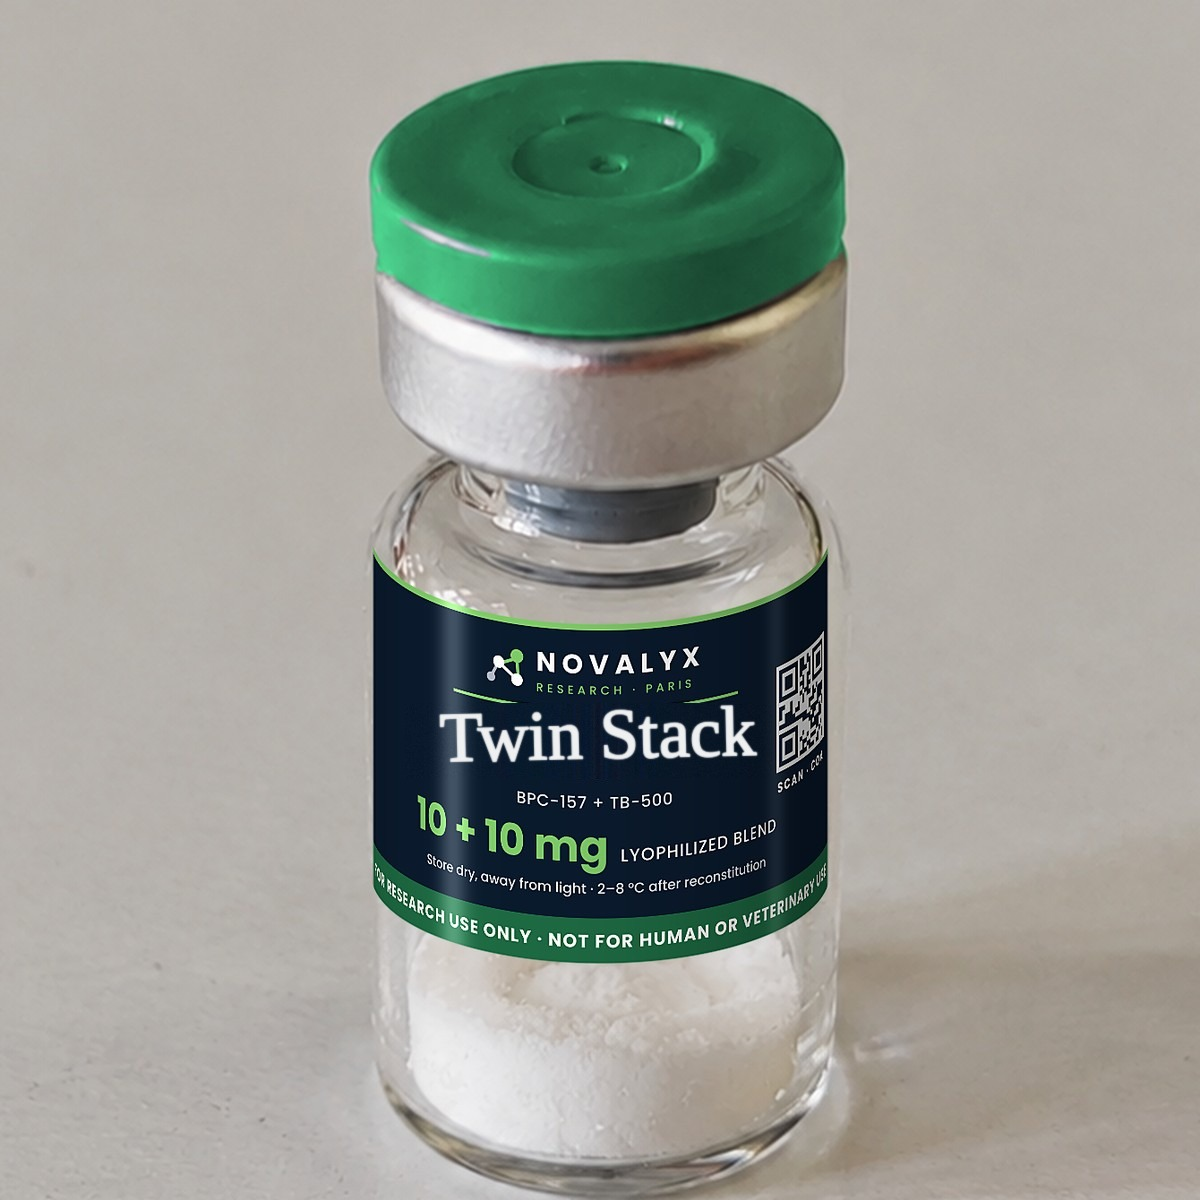
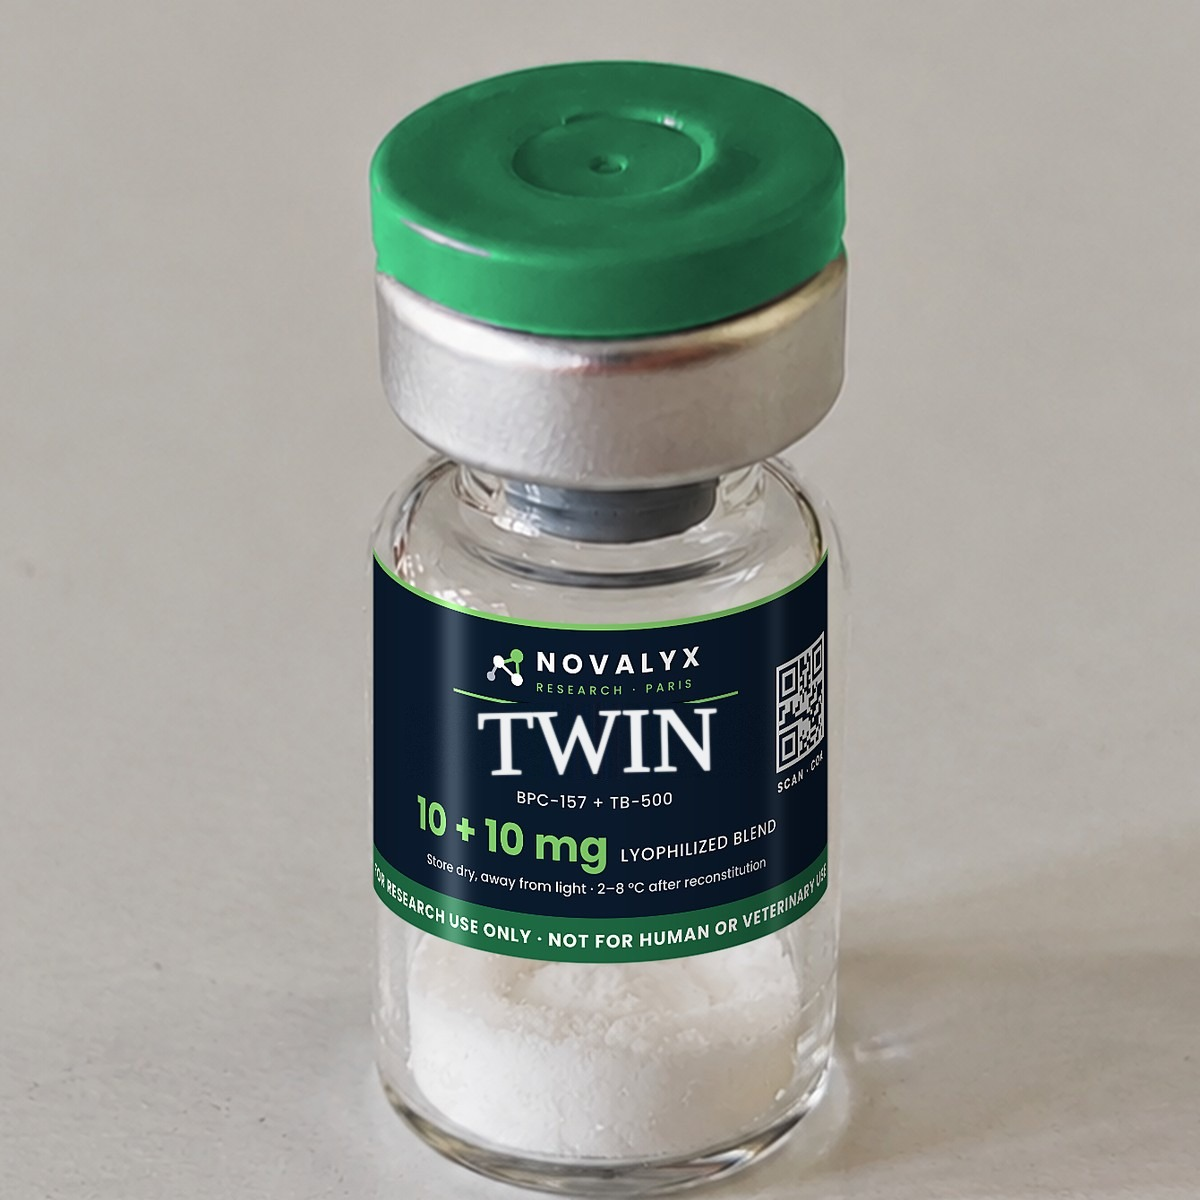
TWIN et SYNAPSE, catégorie « Les Stacks Novalyx »
Claude-Session: https://claude.ai/code/session_01PzS3BkrYWEr8UmzWCxH8az

Changed region(s): [[0.37, 0.5858, 0.6475, 0.6475]]

diff --git a/src/App.jsx b/src/App.jsx
@@ -213,7 +213,7 @@ const PRODUCT_FR = {
   "Bioregulators": "Biorégulateurs peptidiques",
   "Cosmetic Peptides": "Peptides dermo-cosmétiques",
   "Specialized": "Spécialisé",
-  "Signature Blends": "Mélanges Signature",
+  "Signature Blends": "Les Stacks Novalyx",
   "Lab Supplies": "Fournitures Labo",
   // Badges
   "BESTSELLER": "MEILLEURE VENTE",
@@ -1166,11 +1166,11 @@ const PRODUCTS = [
   },
   {
     id: "novalyxformula06",
-    name: "Twin Stack",
+    name: "TWIN",
     tag: "REGENERATIVE RESEARCH BLEND",
     category: "Signature Blends",
-    desc: "Twin Stack is a research blend containing BPC-157 and TB-500 combined in a single lyophilised vial, in two sizes (5mg + 5mg or 10mg + 10mg). Supplied exclusively for in-vitro laboratory research. Not a medicine, supplement, or cosmetic. Not for human or veterinary use.",
-    desc_fr: "Twin Stack est un mélange de recherche contenant du BPC-157 et du TB-500 réunis dans un seul flacon lyophilisé, en deux formats (5 mg + 5 mg ou 10 mg + 10 mg). Fourni exclusivement pour la recherche in-vitro en laboratoire. Pas un médicament, complément ou cosmétique. Pas pour usage humain ou vétérinaire.",
+    desc: "TWIN is a research blend containing BPC-157 and TB-500 combined in a single lyophilised vial, in two sizes (5mg + 5mg or 10mg + 10mg). Supplied exclusively for in-vitro laboratory research. Not a medicine, supplement, or cosmetic. Not for human or veterinary use.",
+    desc_fr: "TWIN est un mélange de recherche contenant du BPC-157 et du TB-500 réunis dans un seul flacon lyophilisé, en deux formats (5 mg + 5 mg ou 10 mg + 10 mg). Fourni exclusivement pour la recherche in-vitro en laboratoire. Pas un médicament, complément ou cosmétique. Pas pour usage humain ou vétérinaire.",
     variants: [
       { size: "10mg total (BPC5+TB5)", price: 64.99 },
       { size: "20mg total (BPC10+TB10)", price: 79.99 },
@@ -1203,11 +1203,11 @@ const PRODUCTS = [
 
   {
     id: "novalyxformula08semaxselank",
-    name: "S²",
+    name: "SYNAPSE",
     tag: "NEUROPEPTIDE RESEARCH",
     category: "Signature Blends",
-    desc: "S² is supplied exclusively for in-vitro laboratory research. Each vial contains a lyophilised peptide. The Janoshik analysis report is published once the batch has been tested. Not a medicine, supplement, or cosmetic. Not for human or veterinary use.",
-    desc_fr: "S² est fourni exclusivement pour la recherche in-vitro en laboratoire. Chaque flacon contient un composé lyophilisé. Le rapport d'analyse Janoshik est publié dès que le lot a été testé. Pas un médicament, complément ou cosmétique. Pas pour usage humain ou vétérinaire.",
+    desc: "SYNAPSE is supplied exclusively for in-vitro laboratory research. Each vial contains a lyophilised peptide. The Janoshik analysis report is published once the batch has been tested. Not a medicine, supplement, or cosmetic. Not for human or veterinary use.",
+    desc_fr: "SYNAPSE est fourni exclusivement pour la recherche in-vitro en laboratoire. Chaque flacon contient un composé lyophilisé. Le rapport d'analyse Janoshik est publié dès que le lot a été testé. Pas un médicament, complément ou cosmétique. Pas pour usage humain ou vétérinaire.",
     variants: [
       { size: "10mg+10mg", price: 69.99 },
     ],
@@ -4041,7 +4041,7 @@ const BOT_KB = {
      "L'afamélanotide est autorisé sous forme d'implant (marque Scenesse) pour une indication précise (protoporphyrie érythropoïétique) dans l'UE et aux États-Unis. Le produit Novalyx est un composé de recherche, pas ce médicament."],
     ["Synthetic analogue of α-MSH, known as afamelanotide ([Nle4, D-Phe7]-α-MSH), an agonist of the MC1R receptor.",
      "Afamelanotide is authorised as an implant (brand Scenesse) for a specific indication (erythropoietic protoporphyria) in the EU and the United States. The Novalyx product is a research compound, not that medicine."]),
-  novalyxformula08semaxselank: K(["s2", "s²", "s carre", "formula 08", "formule 08", "semax selank", "semax + selank", "selank semax"],
+  novalyxformula08semaxselank: K(["synapse", "formula 08", "formule 08", "semax selank", "semax + selank", "selank semax"],
     ["Mélange de deux heptapeptides : le Semax, analogue du fragment ACTH(4-10), et le Selank, analogue de la tuftsine. Chacun est étudié pour ses effets sur la neuromodulation.",
      "Le Semax et le Selank sont autorisés comme médicaments en Russie (voie nasale) ; ni l'un ni l'autre n'est autorisé dans l'Union européenne ou aux États-Unis."],
     ["Blend of two heptapeptides: Semax, an analogue of the ACTH(4-10) fragment, and Selank, an analogue of tuftsin. Each is studied for its neuromodulatory effects.",
@@ -4216,8 +4216,8 @@ const BOT_KB = {
      "Mélange propriétaire de composés de recherche ; aucun statut de médicament. Les statuts de ses composants sont ceux décrits dans leurs fiches."],
     ["Novalyx research blend of four compounds: BPC-157 (10 mg) + GHK-Cu (50 mg) + TB-500 (10 mg) + KPV (10 mg) in a single lyophilised vial. See their entries for the nature of each component.",
      "Proprietary blend of research compounds; no medicine status. The status of its components is as described in their own entries."]),
-  novalyxformula06: K(["twin stack", "twin", "wolverine", "bpc tb", "bpc 157 tb 500", "formula 01", "formula 1", "formule 01", "formula 06", "formula 6", "formule 06", "formule 6", "f06", "f6"],
-    ["Twin Stack : mélange de recherche Novalyx de deux composés, BPC-157 + TB-500, en deux conditionnements (10 mg au total : 5 mg + 5 mg ; 20 mg au total : 10 mg + 10 mg). Voir les fiches BPC-157 et TB-500.",
+  novalyxformula06: K(["twin", "twin stack", "wolverine", "bpc tb", "bpc 157 tb 500", "formula 01", "formula 1", "formule 01", "formula 06", "formula 6", "formule 06", "formule 6", "f06", "f6"],
+    ["TWIN : mélange de recherche Novalyx de deux composés, BPC-157 + TB-500, en deux conditionnements (10 mg au total : 5 mg + 5 mg ; 20 mg au total : 10 mg + 10 mg). Voir les fiches BPC-157 et TB-500.",
      "Mélange propriétaire de composés de recherche ; aucun statut de médicament. Les statuts de ses composants sont ceux décrits dans leurs fiches."],
     ["Novalyx research blend of two compounds: BPC-157 + TB-500, in two sizes (10 mg total: 5 mg + 5 mg; 20 mg total: 10 mg + 10 mg). See the BPC-157 and TB-500 entries.",
      "Proprietary blend of research compounds; no medicine status. The status of its components is as described in their own entries."]),
@@ -5116,7 +5116,7 @@ const XL_DE = {
 "Send the payment": "Zahlung senden",
 "Shipping": "Versand",
 "Short peptides from V. Khavinson's research.": "Kurze Peptide aus der Forschung von V. Khavinson.",
-"Signature Blends": "Signature-Mischungen",
+"Signature Blends": "Novalyx Stacks",
 "Sleep, reproductive, melanocortin.": "Schlaf, Fortpflanzung, Melanocortin.",
 "Specialized": "Spezialisiert",
 "Terms & Conditions": "Allgemeine Geschäftsbedingungen",
@@ -6186,7 +6186,7 @@ const XL_NL = {
 "Shipping & delivery": "Verzending & levering",
 "Shipping:": "Verzending:",
 "Short peptides from V. Khavinson's research.": "Korte peptiden uit het onderzoek van V. Khavinson.",
-"Signature Blends": "Signature-mengsels",
+"Signature Blends": "Novalyx Stacks",
 "Simply place the order again. If you had already sent the payment, email us with the time it was sent: we will find it.": "Plaats de bestelling gewoon opnieuw. Had u de betaling al verzonden, mail ons dan met het tijdstip van verzending: wij vinden haar terug.",
 "Size": "Formaat",
 "Sleep, reproductive, melanocortin.": "Slaap, voortplanting, melanocortine.",
